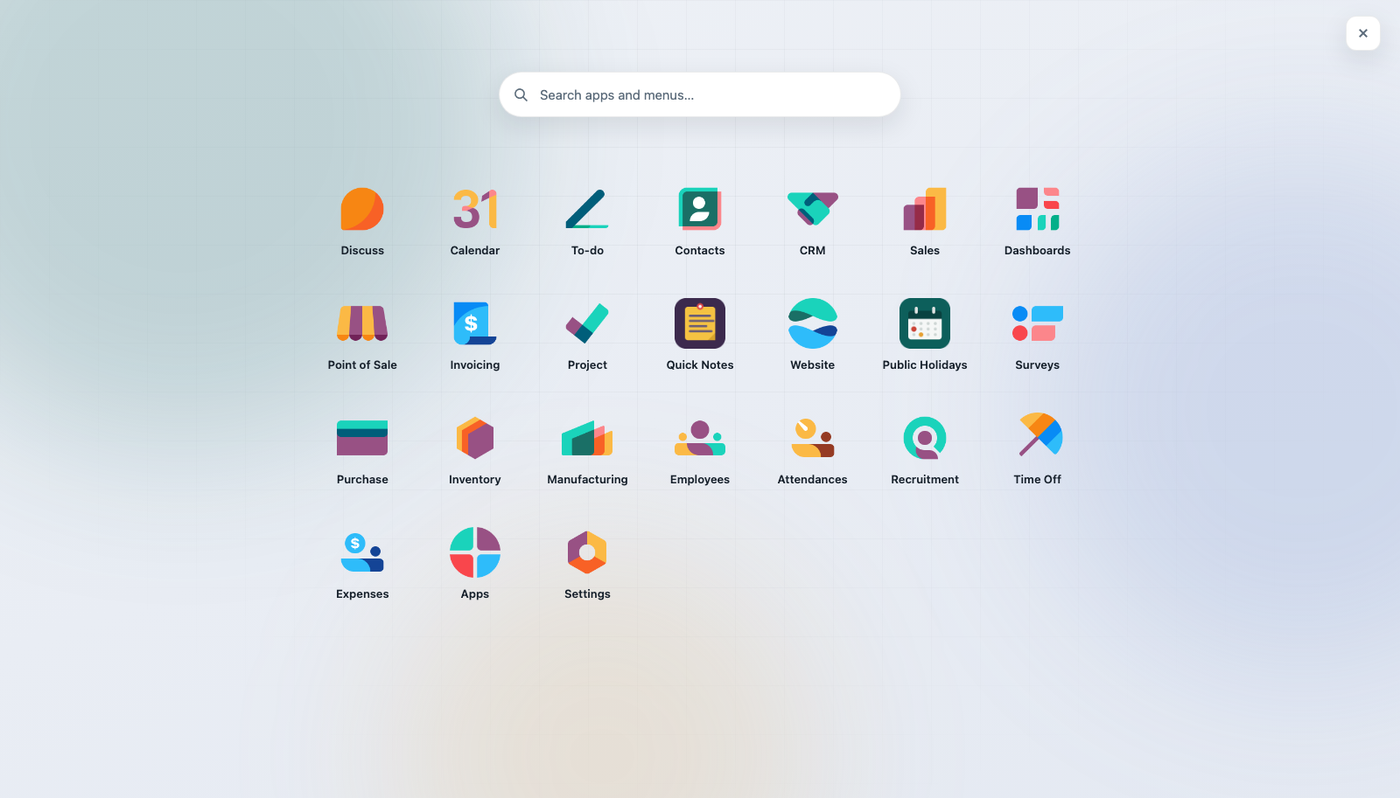
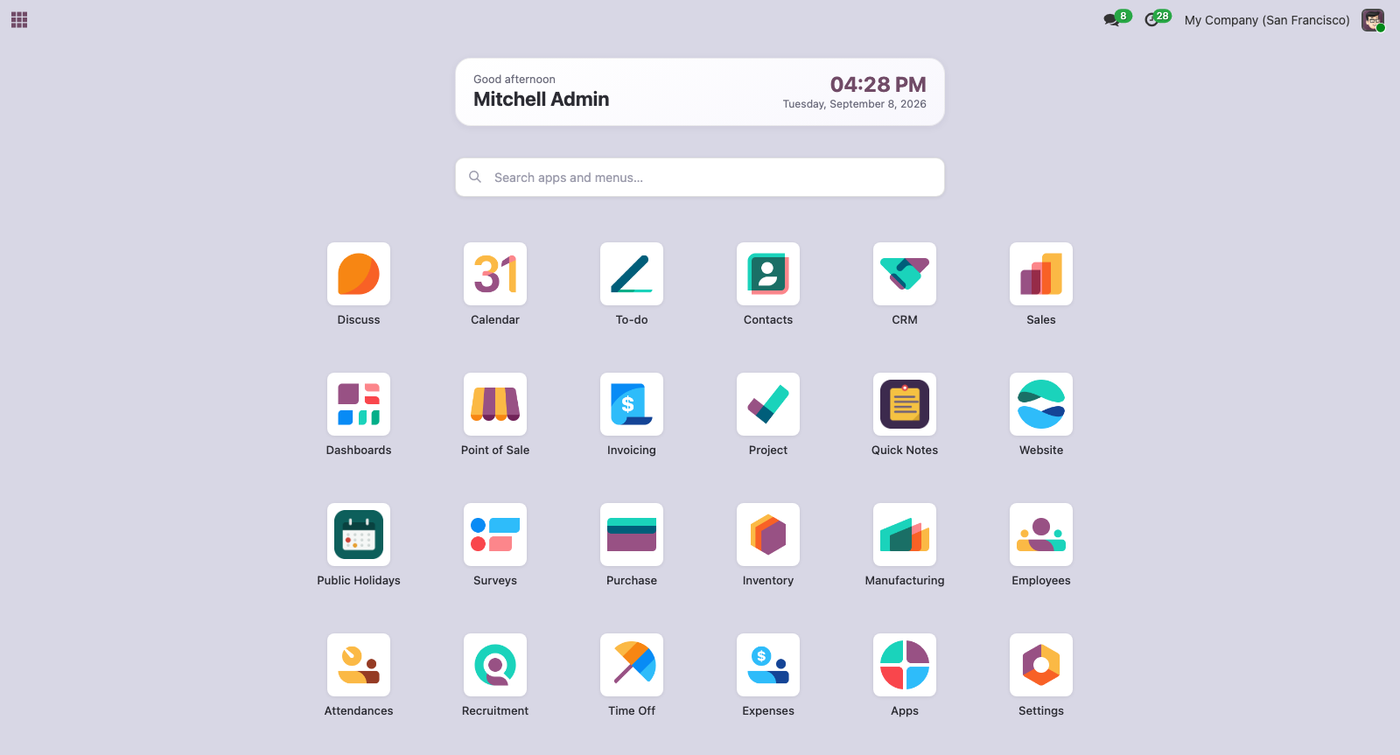
docs(fm_home_grid): aset App Store dari tampilan sekarang
- icon.png: kartu aplikasi di atas latar lavender, mengikuti palet modul
- main_screenshot.png: cover memakai screenshot instance sungguhan
- launcher.png + inside_app.png: dua tampilan dengan keterangannya
- index.html: menampilkan keduanya, menjelaskan perilaku hover tombol home

Semua gambar diambil dari Odoo 19 yang benar-benar berjalan, bukan mockup.

diff --git a/fm_home_grid/static/description/index.html b/fm_home_grid/static/description/index.html
@@ -13,9 +13,21 @@
     </div>
 </section>
 
-<section style="padding:8px 0 32px;">
+<section style="padding:8px 0 20px;">
     <img src="images/launcher.png" alt="The launcher open, showing every app as a large icon"
          style="display:block; max-width:100%; height:auto; margin:0 auto; border:1px solid #D6DEE6;"/>
+    <p style="max-width:820px; margin:12px auto 0; text-align:center; font-size:14px; color:#6B6B7B;">
+        The home screen: a greeting, the time, and every app you can open.
+    </p>
+</section>
+
+<section style="padding:8px 0 32px;">
+    <img src="images/inside_app.png" alt="Inside an app, with the launcher button showing that app's icon"
+         style="display:block; max-width:100%; height:auto; margin:0 auto; border:1px solid #D6DEE6;"/>
+    <p style="max-width:820px; margin:12px auto 0; text-align:center; font-size:14px; color:#6B6B7B;">
+        Inside an app the top bar turns white, and the launcher button carries that
+        app's icon &mdash; hover it to swap in the grid icon and go back.
+    </p>
 </section>
 
 <section style="padding:8px 0 34px;">
